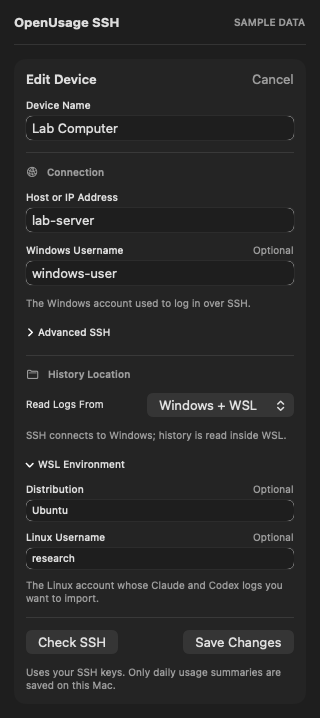
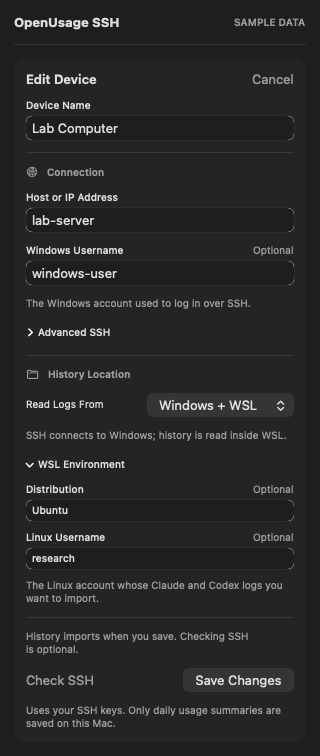
Clarify optional SSH checks and preserve accessible field hints

diff --git a/Sources/OpenUsage/Views/RemoteDeviceEditor.swift b/Sources/OpenUsage/Views/RemoteDeviceEditor.swift
@@ -39,9 +39,14 @@ struct RemoteDeviceEditor: View {
             field(.sshUser, windowsSSH ? "Windows Username" : "SSH Username",
                   placeholder: "From SSH config", text: $draft.sshUser, optional: true)
             if windowsSSH { help("The Windows account used to log in over SSH.") }
-            DisclosureGroup("Advanced SSH", isExpanded: $showSSHOptions) {
+            DisclosureGroup(isExpanded: $showSSHOptions) {
                 field(.sshPort, "Port", placeholder: "From SSH config, otherwise 22", text: $draft.sshPort, optional: true)
                     .padding(.top, 8)
+            } label: {
+                Text("Advanced SSH")
+                    .accessibilityHint(showSSHOptions
+                        ? "Contains the optional SSH port setting."
+                        : "Expand to set a custom SSH port.")
             }
             .font(.caption.weight(.medium))
             Divider()
@@ -58,13 +63,18 @@ struct RemoteDeviceEditor: View {
             }
             if draft.platform == .wsl {
                 help("SSH connects to Windows; history is read inside WSL.")
-                DisclosureGroup("WSL Environment", isExpanded: $showWSLOptions) {
+                DisclosureGroup(isExpanded: $showWSLOptions) {
                     VStack(alignment: .leading, spacing: 10) {
                         field(.wslDistribution, "Distribution", placeholder: "Windows default", text: $draft.wslDistribution, optional: true)
                         field(.wslUser, "Linux Username", placeholder: "Distribution default", text: $draft.wslUser, optional: true)
                         help("The Linux account whose Claude and Codex logs you want to import.")
                     }
                     .padding(.top, 8)
+                } label: {
+                    Text("WSL Environment")
+                        .accessibilityHint(showWSLOptions
+                            ? "Contains the optional WSL distribution and Linux username settings."
+                            : "Expand to set a WSL distribution and Linux username.")
                 }
                 .font(.caption.weight(.medium))
             } else {
@@ -73,6 +83,7 @@ struct RemoteDeviceEditor: View {
             }
             Divider()
             feedback
+            help("History imports when you save. Checking SSH is optional.")
             actions
             help("Uses your SSH keys. Only daily usage summaries are saved on this Mac.")
         }
@@ -128,7 +139,6 @@ struct RemoteDeviceEditor: View {
                 Label("SSH and Python Ready", systemImage: "checkmark.circle.fill")
                     .font(.caption.weight(.medium)).foregroundStyle(Theme.positive)
                 help(probeResult)
-                help("History will be checked when you save.")
             }
         } else if let operationError {
             Label(operationError, systemImage: "exclamationmark.triangle").font(.caption).foregroundStyle(Theme.notice)
@@ -138,9 +148,11 @@ struct RemoteDeviceEditor: View {
 
     private var actions: some View {
         HStack(spacing: 8) {
-            Button("Check SSH") { testConnection() }.buttonStyle(.bordered)
+            Button("Check SSH") { testConnection() }.buttonStyle(.borderless)
+                .accessibilityHint("Checks SSH connectivity and Python availability. Saving also imports history.")
             Spacer(minLength: 0)
             Button(isNew ? "Add Device" : "Save Changes") { save() }.buttonStyle(.borderedProminent)
+                .accessibilityHint("Saves this device and imports its usage history.")
         }
         .disabled(operation != nil).controlSize(.regular)
     }

diff --git a/docs/remote-devices.md b/docs/remote-devices.md
@@ -1,6 +1,6 @@
 # Remote Devices
 
-Settings → Remote Devices lets you add a machine whose Claude Code or Codex CLI history lives outside this Mac. Enter its SSH host alias, DNS name, or IPv4 address. If you use an IP address, enter the SSH username explicitly when it differs from your Mac username; an alias can also supply the username, port, and key through `~/.ssh/config`. **Advanced SSH** contains the optional port override. **Check SSH** checks authentication and Python and shows the remote user and home folder; it does not check usage logs. Changing the connection details clears that result. Saving imports the history. Invalid fields show their own explanation and the first invalid field receives keyboard focus. An existing device can be edited without changing its identity.
+Settings → Remote Devices lets you add a machine whose Claude Code or Codex CLI history lives outside this Mac. Enter its SSH host alias, DNS name, or IPv4 address. If you use an IP address, enter the SSH username explicitly when it differs from your Mac username; an alias can also supply the username, port, and key through `~/.ssh/config`. **Advanced SSH** contains the optional port override. **Check SSH** is optional; it checks authentication and Python and shows the remote user and home folder; it does not check usage logs. Changing the connection details clears that result. Saving imports the history. Invalid fields show their own explanation and the first invalid field receives keyboard focus. An existing device can be edited without changing its identity.
 
 Choose **Windows + WSL** under **Read Logs From** when SSH connects to a Windows host and logs are in WSL. **Windows Username** is the account used for SSH. **WSL Environment** contains the optional distribution and **Linux Username**, which select the Linux home folder containing the logs. **Windows** reads the Windows account's own logs. **Linux** and **Mac** run Python directly under the SSH account. Direct SSH into a WSL distribution uses **Linux**. The remote user needs Python 3 and read access to their CLI logs. Connect once in Terminal first so the SSH host key is known; OpenUsage uses existing SSH keys and never stores a password.
 
